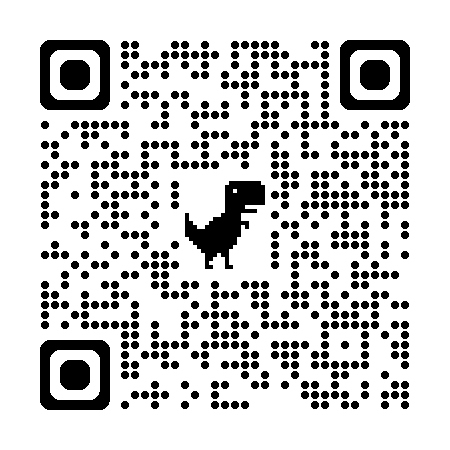
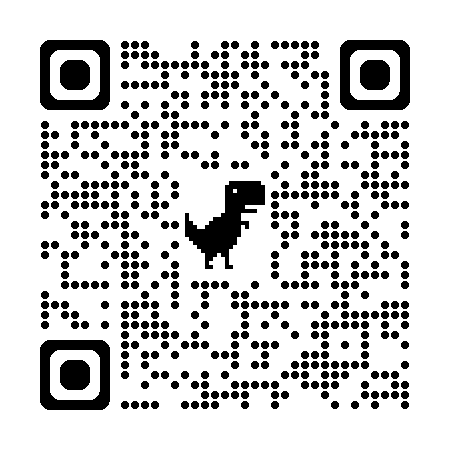
Alteração do Redmi e Link para projeto

diff --git a/src/components/LinkPortfolio.tsx b/src/components/LinkPortfolio.tsx
@@ -60,18 +60,18 @@ export function LinkPortfolio() {
       </div>
       <div className="flex flex-col gap-1 items-center">
         <a
-          title="Link para página do portifólio do Desenvolvedor Humberto Queiroz"
+          title="Link para página do projeto no Github"
           rel="author"
-          href="https://humbertoqueiroz.github.io/"
+          href="https://github.com/HumbertoQueiroz/DevHumbertoQueiroz"
           className="text-sm animate-pulse hover:animate-none font-bold text-cyan-500 hover:bg-cyan-500 hover:text-white border-2 py-1 px-2 rounded border-cyan-500 "
           target="blank"
         >
-          Portfólio <span className="animate-pulse ml-1">&#128640;</span>
+          Github <span className="animate-pulse ml-1">&#128640;</span>
         </a>
         <img
           src="/qrcode_portifolio.png"
-          alt="QR Code para portifólio"
-          title="QR Code para portifólio"
+          alt="QR Code para página do projeto no Github"
+          title="QR Code para página do projeto no Github"
           className="rounded-lg w-32 border-2 border-cyan-500"
         />
       </div>

diff --git a/README.md b/README.md
@@ -1,9 +1,32 @@
-# React + TypeScript + Vite
+# Projeto Currículo
+Protejo desenvolvido para ser o currículo enviado para entrevistas.
 
-Projetos de React, TypeScript, Vite e Versel
+## Por que uma página e não um PDF?
 
-## APIs
+Para demonstrar logo de cara o conhecimento na tecnologia.
 
-Ipify para obter o IP
+Para tornar mais fácil que o recrutador possa visualizar o projeto em execução e o código no github no primeiro momento.
 
-Ipinfo para obter a localização
+### Linguagem de Programação
+
+`React`, `TypeScript`, `Vite` e `Versel`
+
+### APIs
+
+`Ipify` para obter o IP
+
+`Ipinfo` para obter a localização
+
+### Responsividade?
+
+Este projeto foi desenvolvido para ter a mesma exibição de um pdf (mas demonstrando os conhecimentos), por este motivo foi intencionalmente optado não ter responsividade, sendo “setado” um tamanho padrão para qualquer dispositivo.
+
+Será desenvolvido um projeto com responsividade, especificado no próximo tópico.
+
+### Próximo Projeto?
+
+Este projeto atual será parte de um projeto maior, um portfólio completo, para ser o cartão de apresentação deste programador.
+
+#### Por que o portfólio ainda não esta em produção?
+
+No momento estou desenvolvendo um projeto de App para aviso de Emergência para CBM-MT Campo Verde como projeto integrador para a Faculdade IFTM Campo Verde, projeto desenvolvido em `REACT.NATIVE` para App compatível com Android e IOS, `REACT.JS` para Web e `node.js` para backend e banco de dados `PostgreSQL`, por esse motivo não houve tempo para implementação do portifólio (ainda).
